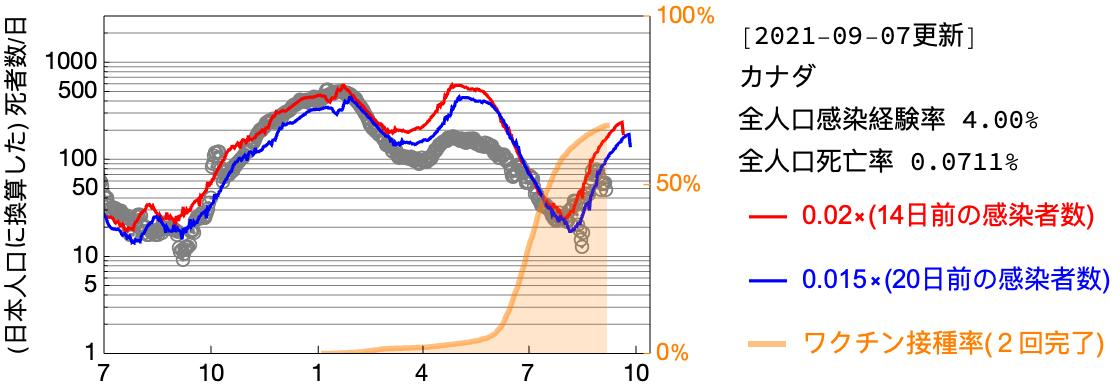
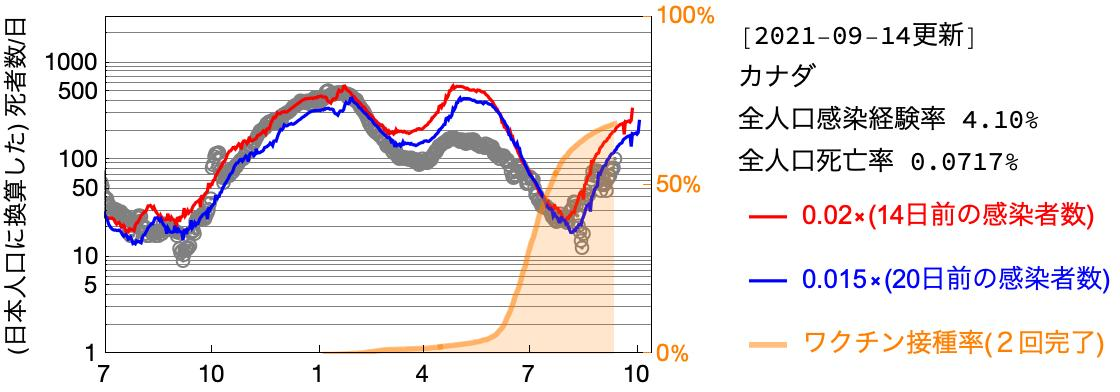
.

diff --git a/_site/COVID19/2021/08/30/covid19-world.html b/_site/COVID19/2021/08/30/covid19-world.html
@@ -7,15 +7,15 @@
 <meta name="generator" content="Jekyll v3.8.7" />
 <meta property="og:title" content="Relation between new cases and new deaths" />
 <meta property="og:locale" content="en_US" />
-<meta name="description" content="[2021/09/07更新]" />
-<meta property="og:description" content="[2021/09/07更新]" />
+<meta name="description" content="[2021/09/14更新]" />
+<meta property="og:description" content="[2021/09/14更新]" />
 <link rel="canonical" href="http://localhost:4000/covid19/2021/08/30/covid19-world.html" />
 <meta property="og:url" content="http://localhost:4000/covid19/2021/08/30/covid19-world.html" />
 <meta property="og:site_name" content="Computational Soft and Biological Matter group" />
 <meta property="og:type" content="article" />
 <meta property="article:published_time" content="2021-08-30T00:00:00+08:00" />
 <script type="application/ld+json">
-{"description":"[2021/09/07更新]","headline":"Relation between new cases and new deaths","dateModified":"2021-08-30T00:00:00+08:00","datePublished":"2021-08-30T00:00:00+08:00","url":"http://localhost:4000/covid19/2021/08/30/covid19-world.html","mainEntityOfPage":{"@type":"WebPage","@id":"http://localhost:4000/covid19/2021/08/30/covid19-world.html"},"@type":"BlogPosting","@context":"https://schema.org"}</script>
+{"description":"[2021/09/14更新]","headline":"Relation between new cases and new deaths","dateModified":"2021-08-30T00:00:00+08:00","datePublished":"2021-08-30T00:00:00+08:00","url":"http://localhost:4000/covid19/2021/08/30/covid19-world.html","mainEntityOfPage":{"@type":"WebPage","@id":"http://localhost:4000/covid19/2021/08/30/covid19-world.html"},"@type":"BlogPosting","@context":"https://schema.org"}</script>
 <!-- End Jekyll SEO tag -->
 <link rel="stylesheet" href="/assets/main.css"><link type="application/atom+xml" rel="alternate" href="http://localhost:4000/feed.xml" title="Computational Soft and Biological Matter group" /></head>
 <body><header class="site-header" role="banner">
@@ -45,7 +45,7 @@
   </header>
 
   <div class="post-content e-content" itemprop="articleBody">
-    <p><strong>[2021/09/07更新]</strong></p>
+    <p><strong>[2021/09/14更新]</strong></p>
 
 <p>死者数と感染者数の相関(他の国も比較のため日本の人口1億2630万人に換算した）</p>
 
@@ -83,6 +83,7 @@
 <img src="/assets/img/newdeath/Indonesia.jpg" alt="Indonesia" />
 <img src="/assets/img/newdeath/India.jpg" alt="India" />
 <img src="/assets/img/newdeath/Australia.jpg" alt="Australia" />
+<img src="/assets/img/newdeath/Singapore.jpg" alt="Singapore" />
 <img src="/assets/img/newdeath/Taiwan.jpg" alt="Taiwan" />
 <img src="/assets/img/newdeath/New Zealand.jpg" alt="New Zealand" />
 <img src="/assets/img/newdeath/China.jpg" alt="China" /></p>

diff --git a/_site/publications/index.html b/_site/publications/index.html
@@ -46,7 +46,7 @@
 
 <ol>
   <li>Z. Zhao, B. Wang, S. Komura, M. Yang, F. Ye, R. Seto, Emergent Stripes of Active Rotors in Shear Flows, 2021 (under review). <a href="https://arxiv.org/abs/2106.15871">(arXiv:2106.15871)</a></li>
-  <li>G. G. Giusteri, R. Seto, Shear jamming and fragility of suspensions in a continuum model with elastic constraints, Phys. Rev. Lett. (accepted), 2021. <a href="https://arxiv.org/abs/2102.01923">(arXiv:2102.01923)</a></li>
+  <li><a href="https://journals.aps.org/prl/accepted/b0079Y6bOb21a36fe8b64bf8f264aff7b304e7531">G. G. Giusteri, R. Seto, Shear jamming and fragility of suspensions in a continuum model with elastic constraints, Phys. Rev. Lett. (accepted), 2021.</a> <a href="https://arxiv.org/abs/2102.01923">(arXiv:2102.01923)</a></li>
   <li>C. Ness, R. Seto, R. Mari, The physics of dense suspensions, Annu. Rev. Condens. Matter Phys. (accepted), 2021. <a href="https://arxiv.org/abs/2105.04162">(arXiv:2105.04162)</a></li>
   <li><a href="https://doi.org/10.1017/jfm.2020.1111">J. T. Jenkins, R. Seto, L. L. Ragione, Predictions of microstructure and stress in two-dimensional pure shearing of a dense viscous suspension, J. Fluid Mech., 912:A27, 2021.</a> <a href="https://arxiv.org/abs/2006.05590">(arXiv:2006.05590)</a></li>
   <li><a href="https://journals.aps.org/prl/accepted/6a071YaaC7012d6786e11908e97c58d6265f0e9a3">A. Singh, C. Ness, R. Seto, J. J. de Pablo, H. M. Jaeger, Shear thickening and jamming of dense suspensions: the roll of friction, Phys. Rev. Lett. 124, 248005, 2020.</a> <a href="https://arxiv.org/abs/2002.10996">(arXiv:2002.10996)</a></li>

diff --git a/publications.md b/publications.md
@@ -9,7 +9,7 @@ permalink: /publications/
 ### Papers
 
 1. Z. Zhao, B. Wang, S. Komura, M. Yang, F. Ye, R. Seto, Emergent Stripes of Active Rotors in Shear Flows, 2021 (under review). [(arXiv:2106.15871)](https://arxiv.org/abs/2106.15871)
-1. G. G. Giusteri, R. Seto, Shear jamming and fragility of suspensions in a continuum model with elastic constraints, Phys. Rev. Lett. (accepted), 2021. [(arXiv:2102.01923)](https://arxiv.org/abs/2102.01923)
+1. [G. G. Giusteri, R. Seto, Shear jamming and fragility of suspensions in a continuum model with elastic constraints, Phys. Rev. Lett. (accepted), 2021.](https://journals.aps.org/prl/accepted/b0079Y6bOb21a36fe8b64bf8f264aff7b304e7531) [(arXiv:2102.01923)](https://arxiv.org/abs/2102.01923)
 1. C. Ness, R. Seto, R. Mari, The physics of dense suspensions, Annu. Rev. Condens. Matter Phys. (accepted), 2021. [(arXiv:2105.04162)](https://arxiv.org/abs/2105.04162)
 1. [J. T. Jenkins, R. Seto, L. L. Ragione, Predictions of microstructure and stress in two-dimensional pure shearing of a dense viscous suspension, J. Fluid Mech., 912:A27, 2021.](https://doi.org/10.1017/jfm.2020.1111) [(arXiv:2006.05590)](https://arxiv.org/abs/2006.05590)
 1. [A. Singh, C. Ness, R. Seto, J. J. de Pablo, H. M. Jaeger, Shear thickening and jamming of dense suspensions: the roll of friction, Phys. Rev. Lett. 124, 248005, 2020.](https://journals.aps.org/prl/accepted/6a071YaaC7012d6786e11908e97c58d6265f0e9a3) [(arXiv:2002.10996)](https://arxiv.org/abs/2002.10996)

diff --git a/_posts/2021-08-30-covid19-world.md b/_posts/2021-08-30-covid19-world.md
@@ -4,7 +4,7 @@ title:  "Relation between new cases and new deaths"
 date:   2021-08-30
 categories: covid19
 ---
-**[2021/09/07更新]**
+**[2021/09/14更新]**
 
 
 死者数と感染者数の相関(他の国も比較のため日本の人口1億2630万人に換算した）
@@ -16,7 +16,6 @@ categories: covid19
 - **青線は直近**の死者数についての比較．d2日前の陽性者数に死亡率r2を掛けている（フィッティングは目視）．ワクチン接種は進行中なので，これらの値は時間とともに変わりうる．
 
 - 多くの国で青線を得るための死亡率は赤線のものより小さくなっている．国によって値や変化の度合いにばらつきがあるので断定できないが，ワクチンによる効果と考えている．
-
 
 New deaths  vs. New cases (scaled for the population of Japan 126.3M)
 
@@ -39,6 +38,7 @@ New deaths  vs. New cases (scaled for the population of Japan 126.3M)
 ![Indonesia](/assets/img/newdeath/Indonesia.jpg)
 ![India](/assets/img/newdeath/India.jpg)
 ![Australia](/assets/img/newdeath/Australia.jpg)
+![Singapore](/assets/img/newdeath/Singapore.jpg)
 ![Taiwan](/assets/img/newdeath/Taiwan.jpg)
 ![New Zealand](/assets/img/newdeath/New Zealand.jpg)
 ![China](/assets/img/newdeath/China.jpg)
